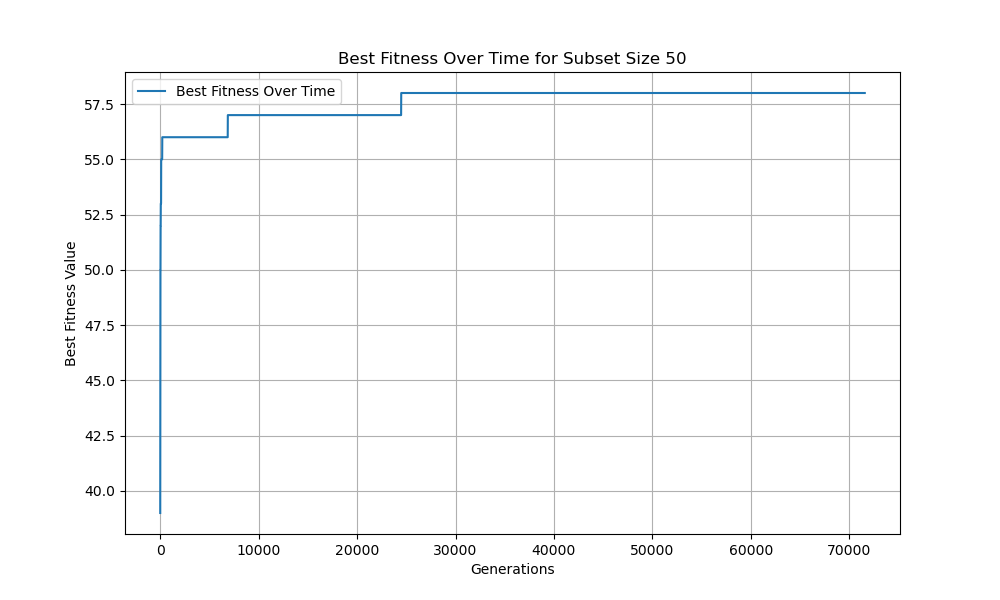
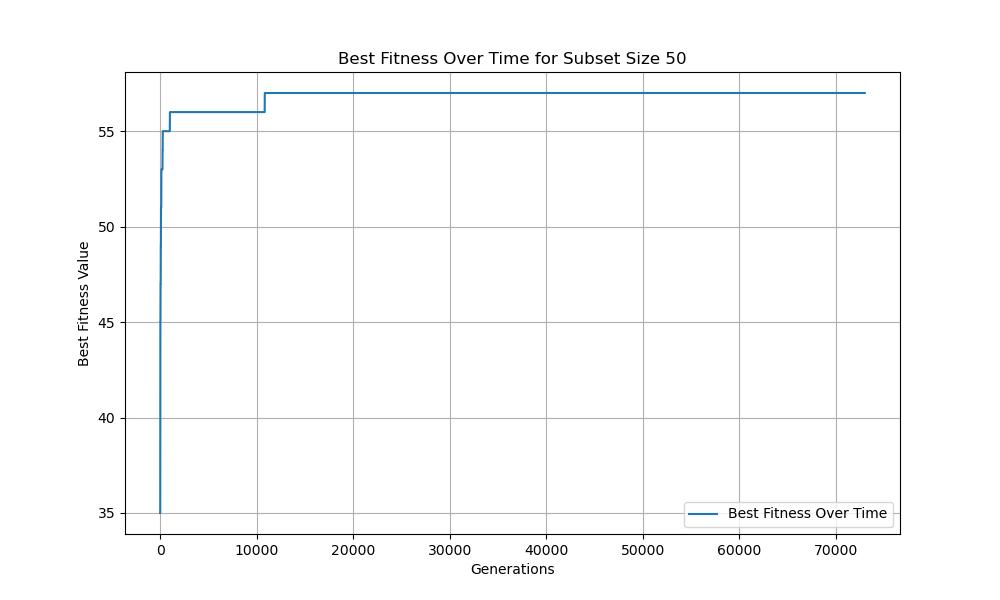
Time limit 45 second

diff --git a/ROLLXYZ_FIRSTNAME.py b/ROLLXYZ_FIRSTNAME.py
@@ -5,7 +5,7 @@ import matplotlib.pyplot as plt
 import numpy as np
 import os
 
-MAX_TIME = 45
+MAX_TIME = 40
 
 def initialize_population(size, subsets):
     population = []
